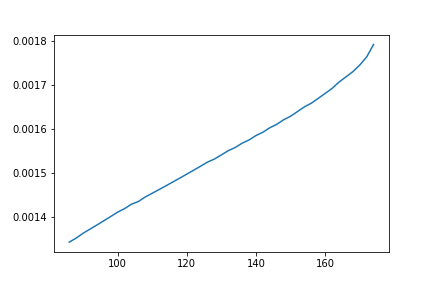
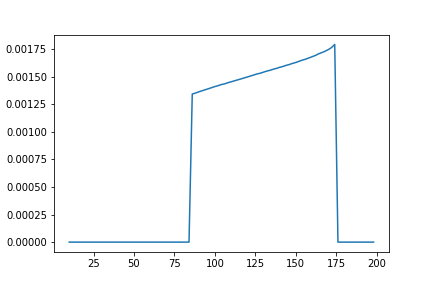
HHの周波数カウンタ改良

diff --git a/ホジキン-ハクスレイ.py b/ホジキン-ハクスレイ.py
@@ -29,7 +29,7 @@ class Freq_Counter:
     def get_Freq(self):
         if(len(self.detected)<2):
             print('There is not enough data.')
-            return None
+            return 0
 
         diff=np.diff(self.detected)
         T_mean=sum(diff)/len(diff)
@@ -97,7 +97,7 @@ class Neuron:
 #tは時間、Iは電流値[mA]
 
 t = 2000
-I = 120
+I = 80
 Nu=Neuron(-50)
 freq_counter=Freq_Counter(-10)
 
